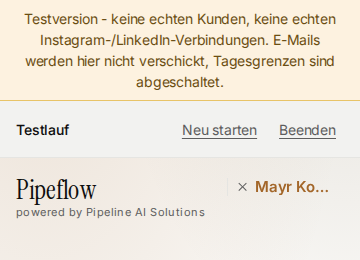
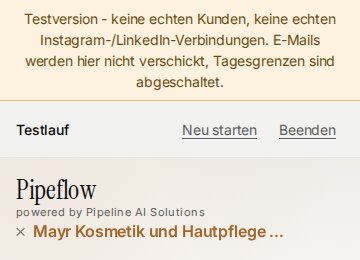
Kopfzeile am Handy: Marke in zweiter Zeile statt gekappt
Bei 360 px blieben neben "powered by Pipeline AI Solutions" nur 77 px - schon
"Channoine Mayr" wurde zu "Channoi…". Jetzt rueckt die Kundenmarke am Handy in
eine zweite Zeile ueber die volle Breite (+23 px, nur dort); am Schreibtisch
unveraendert 70 px. Normale Namen ungekappt, lange mit Auslassung ab 260 px.

Changed region(s): [[0.0917, 0.8615, 0.7944, 0.9231], [0.6417, 0.6769, 0.9167, 0.7692], [0.0306, 0.8615, 0.0611, 0.9231]]

diff --git a/public/panel/start/start.css b/public/panel/start/start.css
@@ -522,9 +522,15 @@ body.blatt-offen #plan-vorschau .kachel-wm { font-size: 7px; }
 .marke-kunde.kachel-logo img { border-radius: 7px; height: 28px; max-width: 28px; }
 @keyframes logo-auf { from { opacity: 0; transform: translateY(-3px); } to { opacity: 1; transform: none; } }
 @media (max-width: 420px) {
-  .marke-kunde { margin-left: 10px; padding-left: 10px; gap: 8px; }
-  .marke-kunde img { height: 26px; max-width: 104px; }
-  .marke-kunde-name { font-size: 15px; max-width: 108px; }
+  /* Am Handy reicht die Breite neben "powered by Pipeline AI Solutions" nicht: schon
+     "Channoine Mayr" wurde zu "Channoi…" (gemessen: 77 px Platz). Deshalb rueckt die Marke
+     des Kunden in eine zweite Zeile unter den Schriftzug, ueber die volle Breite - lesbar
+     bis rund 30 Zeichen, danach Auslassung. Die Kopfzeile wird dafuer 28 px hoeher, nur hier. */
+  .top { flex-wrap: wrap; gap: 2px 12px; }
+  .top-actions { order: 2; }
+  .marke-kunde { order: 3; flex-basis: 100%; margin: 2px 0 0; padding-left: 0; border-left: 0; gap: 8px; }
+  .marke-kunde img { height: 26px; max-width: 160px; }
+  .marke-kunde-name { font-size: 16px; max-width: 260px; }
 }
 
 /* ---- Ladebildschirm: echte Zwischenergebnisse statt Schrittliste ------------------------
